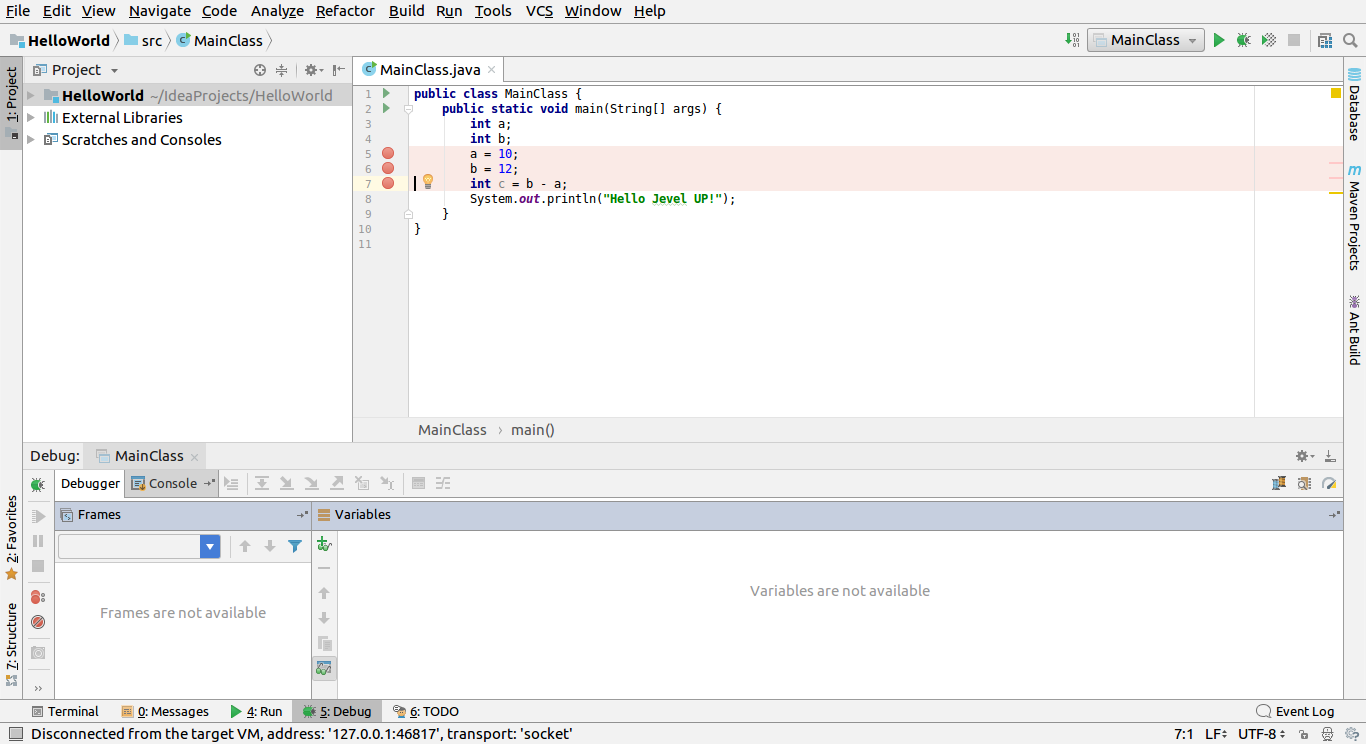
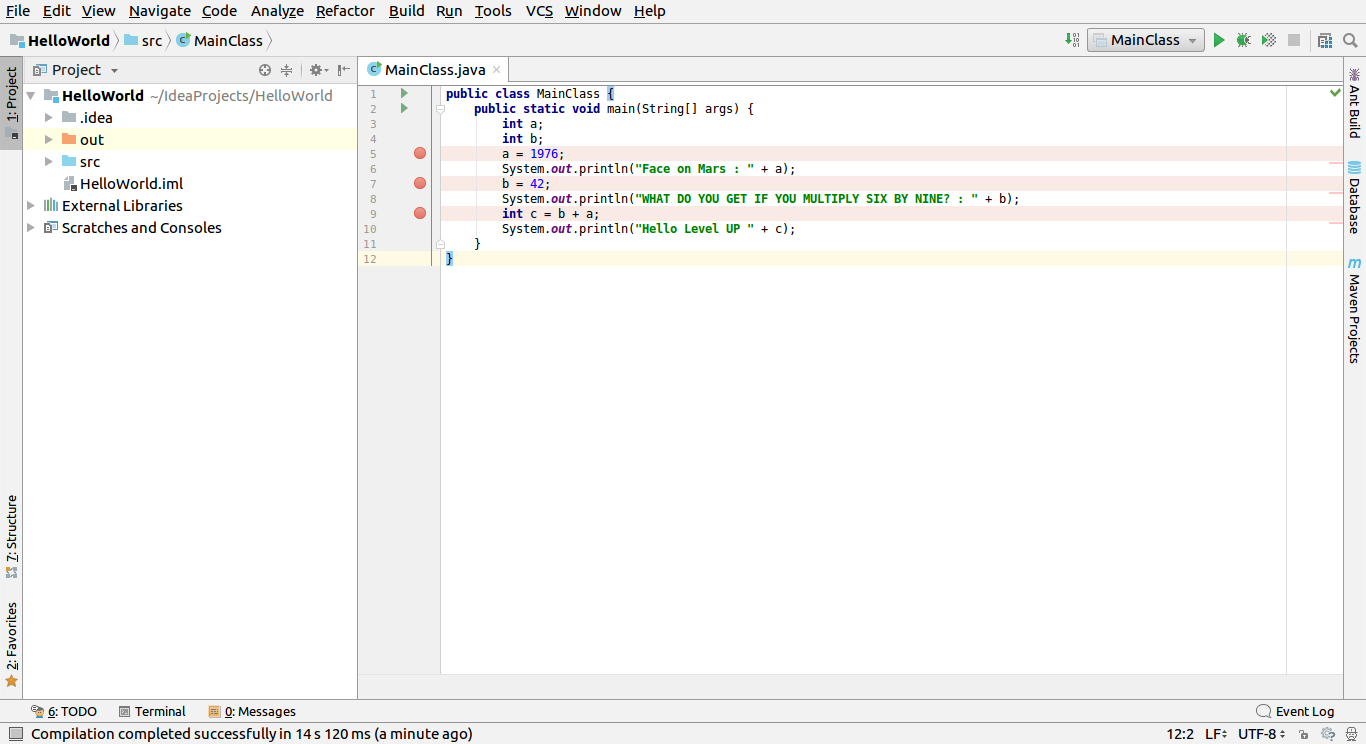
more references

diff --git a/lectures/lecture1.md b/lectures/lecture1.md
@@ -117,21 +117,13 @@ JVM является ключевым компонентом платформы 
 
 Если хотите увидеть, где используется Java, не нужно далеко идти. Просто возьмите свой телефон на Android, абсолютно все приложения написаны на Java, с использованием Google и Android API, которые схожи с JDK. Пару лет назад Android предоставил необходимые возможности, благодаря чему сегодня многие Java программисты – Android разработчики. Кстати, Android использует другую JVM и другой и другой способ компановки, но код всё ещё написан на Java.
 
-**Серверные приложения в сфере финансовых услуг**
-
-Java очень обширно применяется в финансовой сфере. Многие мировые инвестиционные банки, типа Goldman Sachs, Citigroup, Barclays, Standard Charted и другие используют Java для написания фронт-энд и бэк-энд офисных электронных систем, систем регулирования и конфирмации, проектов обработки данных и некоторых других. Преимущественно Java используется при написании серверных приложений, в большинстве своём без какого-либо пользовательского интерфейса, которые получают данные с одного сервера, обрабатывают их и отправляют дальше. Java Swing был также популярен для создания «толстоклиентных» интерфейсоф, но сейчас C# быстро захватывает рынок в этой области, а Swing уже выдыхается.
-
 **Вэб-приложения**
 
-Также Java широко используется в электронной коммерции и в области вэб-приложений. Огромное количество RESTful сервисов было создано с использованием Spring MVC, Struts 2.0 и похожих фреймворков. Даже простейшие приложения, основанные на Servlet, JSP и Struts, достаточно популярны в различных государственных проектах. Многие вэб-приложения государственных, оздоровительных, страховых, образовательных, оборонительных и некоторых других отделений написаны на Java.
+Даже простейшие приложения, основанные на Servlet, JSP и Struts, достаточно популярны в различных государственных проектах. Многие вэб-приложения государственных, оздоровительных, страховых, образовательных, оборонительных и некоторых других отделений написаны на Java.
 
 **Программные средства**
 
 Многие полезные програмные средства и средства разработки написаны и разработаны на Java, например Eclipse, IntelliJ Idea и Netbeans IDE. Мне кажется это, к тому же, наиболее используемые приложения, написанные на Java. Сегодня Java FX набирает всё большую популярность.
-
-**Научные приложения**
-
-В наши дни часто Java – выбор по-умолчанию для научных приложений, включая обработку естественного языка. Основная причина в том, что Java более безопасна, мобильна и надёжна и имеет лучшие инструменты параллелизации , чем С++ и другие языки.
 
 <a name="ide"/>
 
@@ -213,24 +205,29 @@ Java очень обширно применяется в финансовой с
 
 **Отладка** - это этап разработки для локализации и устранения ошибок. Для локализации нужно выяснить по какому пути проходит программа и знать значения переменных в определённые моменты работы приложения.
 
-Для ачала добавим в наш код несколько строк:
+Для начала нужно немного изменить код нашего класса(созданного по гайду представленному выше). Мы заменим содержимое функции **main** на следующие строки:
 
     int a;
     int b;
-    a = 10;
-    b = 12;
-    int c = b - a;
+    a = 1976;
+    System.out.println("Face on Mars : " + a);
+    b = 42;
+    System.out.println("WHAT DO YOU GET IF YOU MULTIPLY SIX BY NINE? : " + b);
+    int c = b + a;
+    System.out.println("Hello Jevel UP " + с);
 
 Код должен выглядеть следующим образом:
 
     public class MainClass {
         public static void main(String[] args) {
-            int a;
-            int b;
-            a = 10;
-            b = 12;
-            int c = b - a;
-            System.out.println("Hello Jevel UP!");
+        int a;
+        int b;
+        a = 1976;
+        System.out.println("Face on Mars : " + a);
+        b = 42;
+        System.out.println("WHAT DO YOU GET IF YOU MULTIPLY SIX BY NINE? : " + b);
+        int c = b + a;
+        System.out.println("Hello Jevel UP " + с);
         }
     }
 

diff --git a/guides/jdk_install_guides.md b/guides/jdk_install_guides.md
@@ -19,6 +19,12 @@
 
 ## Шаг 2: Установить JDK из файла
 
+Ну с этим все справятся(если что пишите в telegram канал).
+
+## Шаг 3: Перезагрузить Windows.
+
+Это может решить много проблем.
+
 <a name="lin"/>
 
 # Ubuntu
@@ -32,5 +38,3 @@
 Просто введите команду _**sudo apt-get install default-jdk**_
 
 ![terminal](../resources/jdk_install_linix_2.png)
-
-##
